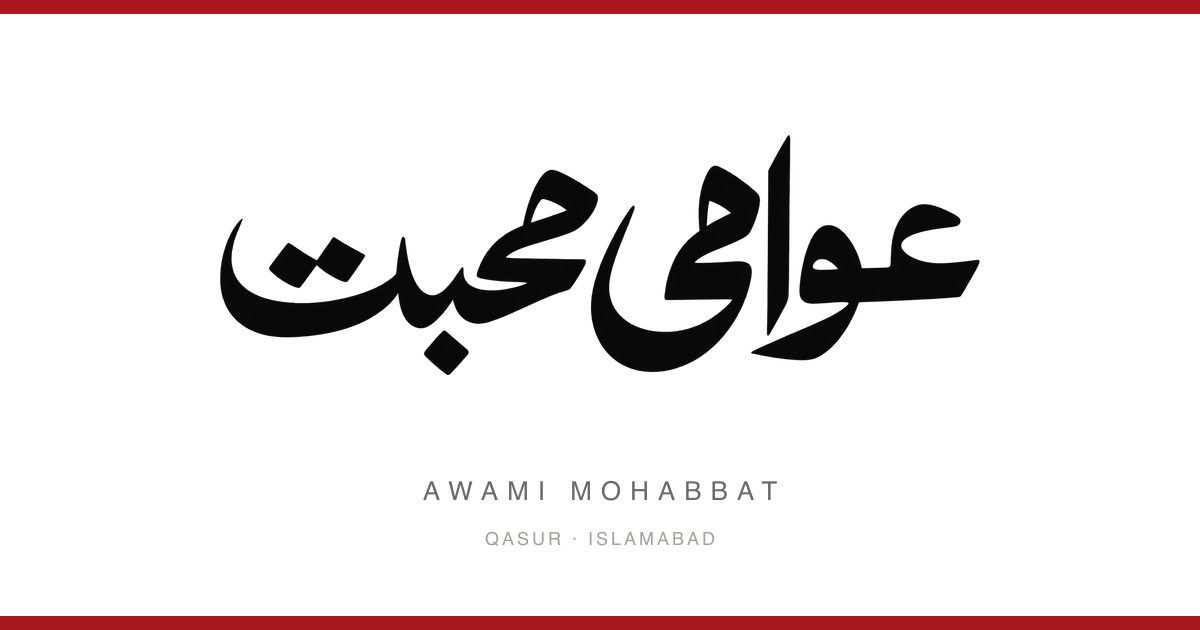
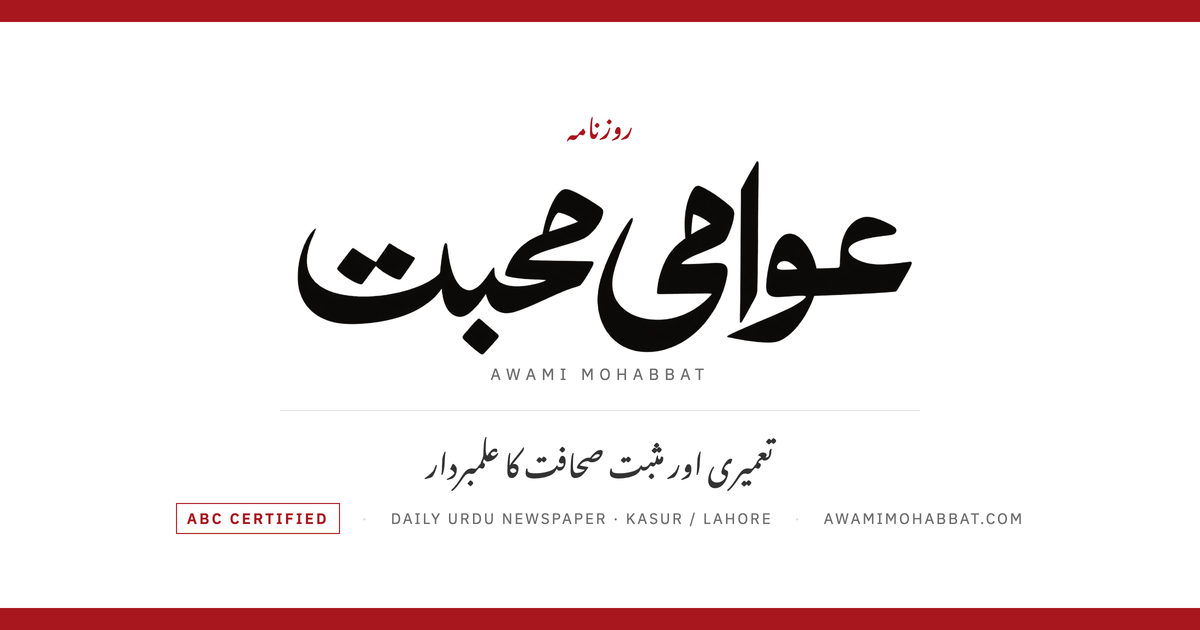
feat(share): designed OG cards, request-derived URLs, custom domains
- 1200×630 share cards per locale (public/og-image.png, og-image-en.png),
  rendered from the site's own fonts: wordmark, tagline, ABC badge, domain
- Canonical, hreflang, OG/Twitter, sitemap and robots URLs now come from
  the request origin — no more SITE_URL baked in at build, so one build
  serves awamimohabbat.com and the workers.dev preview correctly
- og:image type/width/height/alt, og:locale:alternate, twitter:* tags
- wrangler routes: awamimohabbat.com + www (custom domains); middleware
  301s www → apex
- Meta description: Kasur and Lahore (was the design's placeholder)

diff --git a/src/i18n/ur.ts b/src/i18n/ur.ts
@@ -9,7 +9,7 @@ export const ur = {
   meta: {
     siteName: 'عوامی محبت',
     siteNameLatin: 'Awami Mohabbat',
-    description: 'روزنامہ عوامی محبت — قصور اور اسلام آباد سے شائع ہونے والا روزنامہ۔ آج کا اخبار، آرکائیو اور مضامین۔',
+    description: 'روزنامہ عوامی محبت — قصور اور لاہور سے شائع ہونے والا اردو روزنامہ۔ آج کا اخبار، آرکائیو اور مضامین۔',
   },
   strip: {
     group: 'عوامی محبت گروپ آف پبلیکیشنز',

diff --git a/src/middleware.ts b/src/middleware.ts
@@ -20,6 +20,13 @@ const edgeCache = (): Cache => (caches as unknown as { default: Cache }).default
 export const onRequest = defineMiddleware(async (context, next) => {
   const { request } = context;
   const url = new URL(request.url);
+
+  // One canonical host: www → apex, permanently.
+  if (url.hostname.startsWith('www.')) {
+    url.hostname = url.hostname.slice(4);
+    return Response.redirect(url.toString(), 301);
+  }
+
   const isMedia = url.pathname.startsWith('/media/');
   const cacheable = request.method === 'GET' && !isMedia && import.meta.env.PROD;
 

diff --git a/src/pages/robots.txt.ts b/src/pages/robots.txt.ts
@@ -1,7 +1,7 @@
 import type { APIRoute } from 'astro';
 
-export const GET: APIRoute = ({ site }) => {
-  const sitemap = site ? new URL('/sitemap.xml', site).toString() : '/sitemap.xml';
+export const GET: APIRoute = ({ url }) => {
+  const sitemap = new URL('/sitemap.xml', url.origin).toString();
   const body = ['User-agent: *', 'Allow: /', 'Disallow: /admin', 'Disallow: /api/', `Sitemap: ${sitemap}`, ''].join('\n');
   return new Response(body, {
     headers: { 'content-type': 'text/plain; charset=utf-8', 'cache-control': 'public, s-maxage=86400' },

diff --git a/src/pages/sitemap.xml.ts b/src/pages/sitemap.xml.ts
@@ -2,8 +2,8 @@ import type { APIRoute } from 'astro';
 import { LOCALES, localePath } from '@/i18n';
 
 /** Homepage in each locale with hreflang alternates. Editions/articles join in phase 2. */
-export const GET: APIRoute = ({ site }) => {
-  const base = site ?? new URL('http://localhost:4321');
+export const GET: APIRoute = ({ url }) => {
+  const base = new URL(url.origin);
   const routes = ['/', '/about'];
   const urls = routes
     .flatMap((route) =>

diff --git a/src/i18n/en.ts b/src/i18n/en.ts
@@ -5,7 +5,7 @@ export const en: Catalog = {
   meta: {
     siteName: 'Awami Mohabbat',
     siteNameLatin: 'Awami Mohabbat',
-    description: 'Awami Mohabbat — the daily newspaper from Qasur and Islamabad. Today\'s edition, the archive and articles.',
+    description: 'Awami Mohabbat — the Urdu daily from Kasur and Lahore. Today\'s edition, the archive and articles.',
   },
   strip: {
     group: 'Awami Mohabbat Group of Publications',
